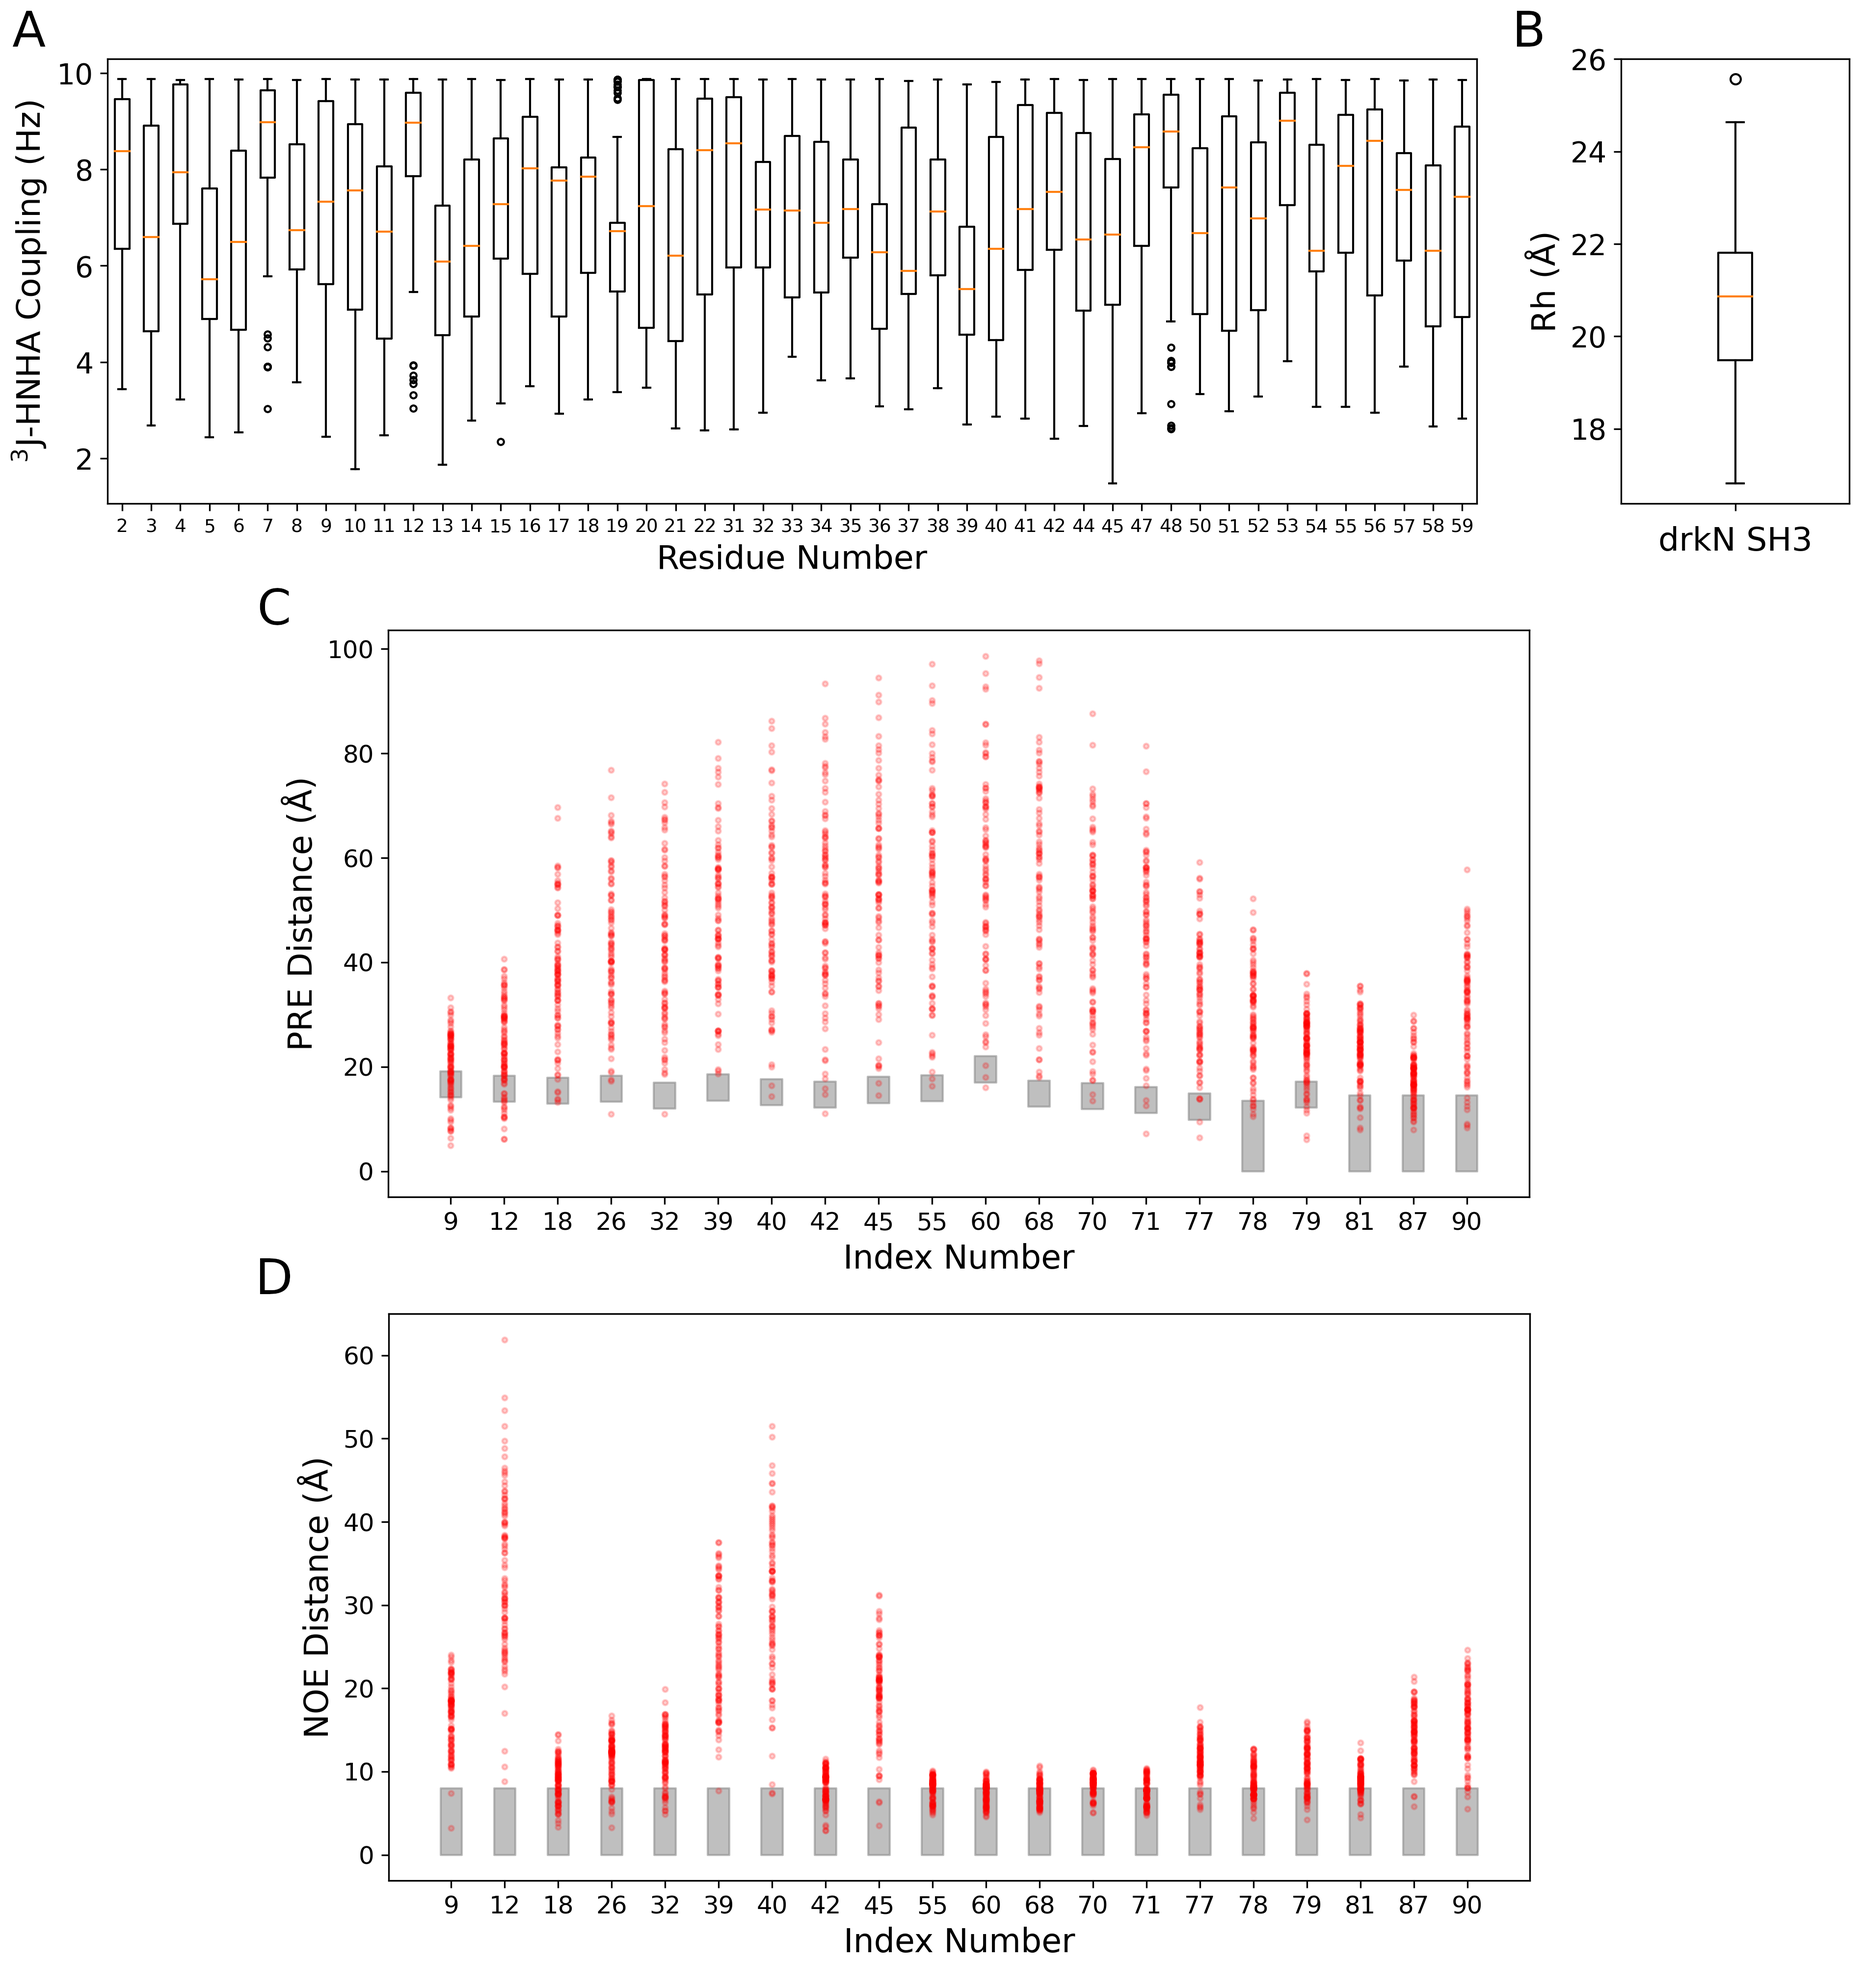
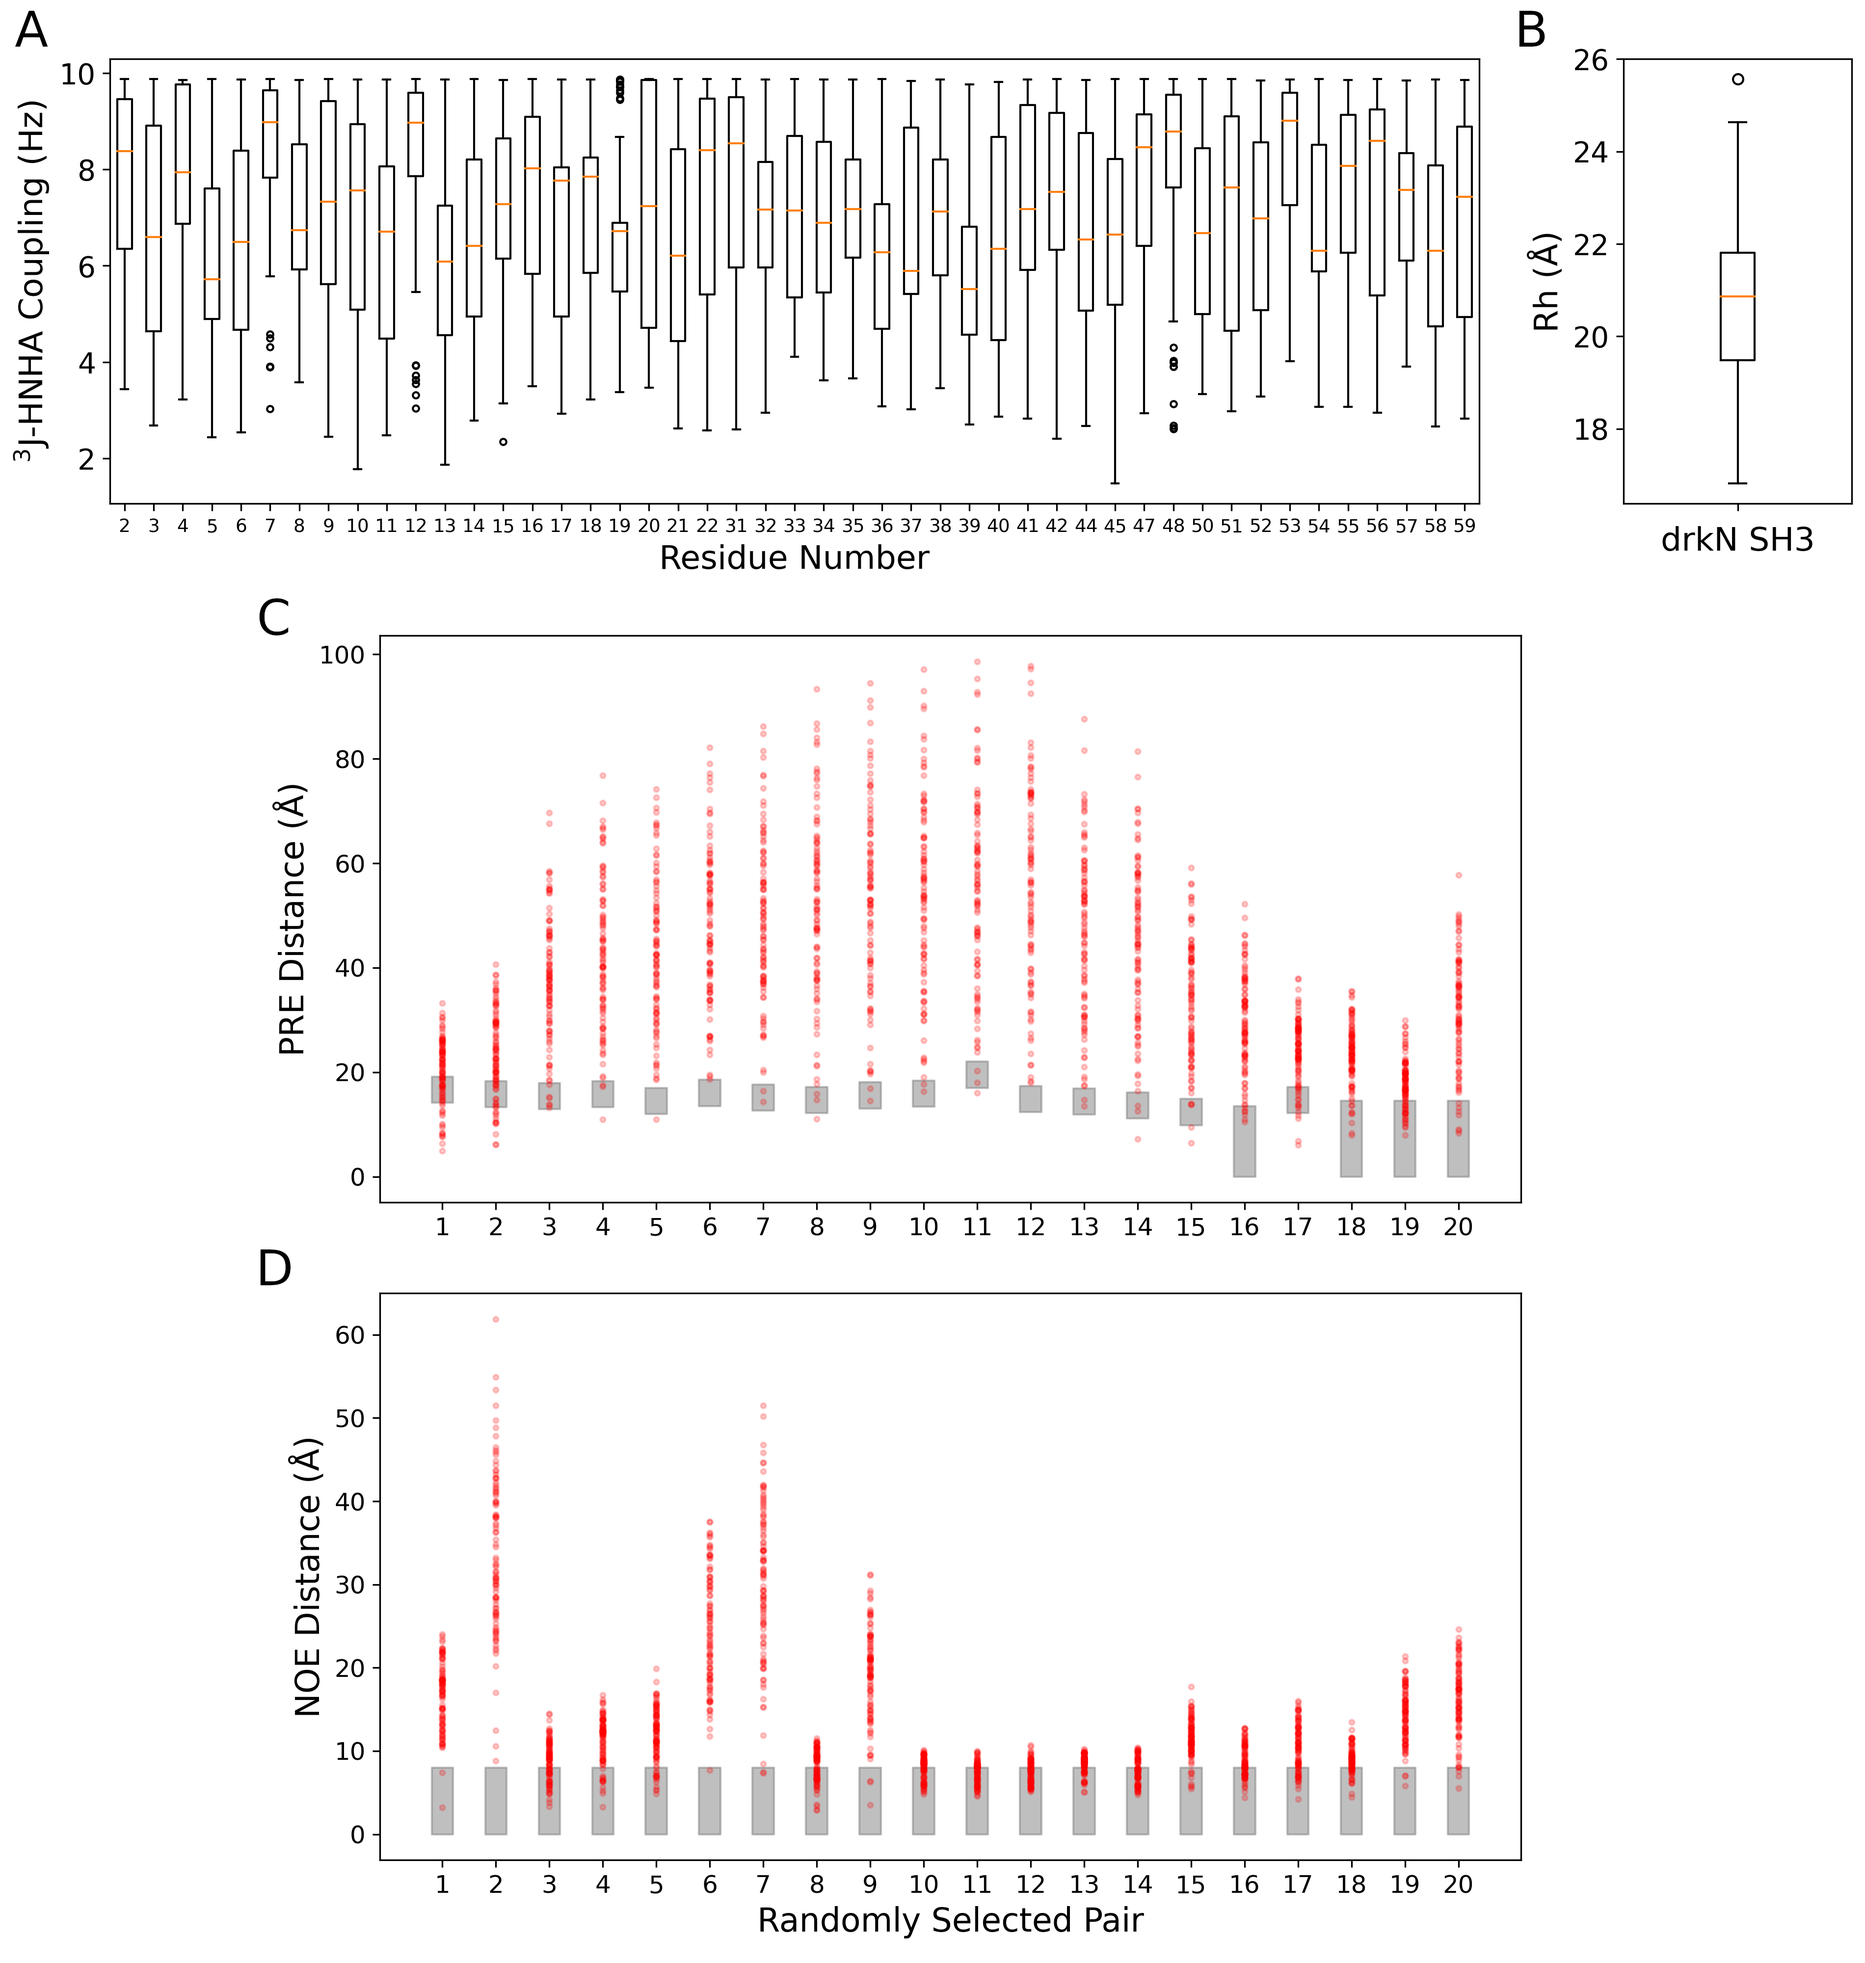
update paper

diff --git a/joss/paper.md b/joss/paper.md
@@ -88,7 +88,9 @@ We plan to integrate alternative methods to calculate experimental datatypes int
 
 Detailed installation/troubleshooting instructions, real-world usage examples, and input/output formats are provided both in the project's documentation hosted on ReadTheDocs (https://spyci-pdb.readthedocs.io/en/stable/) and within the modules through the `--help` argument. Plots of sample outputs from the `jc`, `rh`, `pre`, and `noe` modules using the example structures and data in the repository are shown in \autoref{fig}.
 
-![Plots of distributions of back-calculated experimental data of 100 structures of the unfolded state of the Drk N-terminal SH3 domain (drkN SH3) generated using IDPConformerGenerator [@Teixeira2022]. Panel (A) shows back-calculated <sup>3</sup>J-HNHA couplings in Hz based on the Karplus equation with A, B, and C constants from Lincoff et al. [@Lincoff2020]. Not every residue has a back-calculated J coupling based on the associated experimental file. Panel (B) shows the distribution of back-calculated Rh values in Angstroms using HullRad [@Fleming2018]. Panels (C) and (D) show twenty randomy selected pairs of back-calculated PRE and NOE distances respectively as indicated by the index number corresponding to their experimental counterpart. The ranges of experimental values are represented as grey boxes while back-calculated values are shown as red dots.\label{fig}](fig1.png)
+Comparing the back-calculated PRE and NOE distance values to the experimental observables, the default Euclidean distance interpretation yields some values agreeing with the experimental range (Figure 1C, 1D). With a greater sample size, we would likely capture more back-calculated data agreeing with the experimental ranges. The internal plotting features in the ``noe``, ``pre``, ``rh``, and ``jc`` modules of **SPyCi-PDB** is useful for users to gauge the quality of the initial pool before downstream reweighting. Furthermore, with the integration of different back-calculation methods, these plots will provide the user with a useful comparison between back-calculation philosophies.
+
+![Plots of distributions of back-calculated experimental data of 100 structures of the unfolded state of the Drk N-terminal SH3 domain (drkN SH3) generated using IDPConformerGenerator [@Teixeira2022]. Panel (A) shows back-calculated 3J-HNHA couplings in Hz based on the Karplus equation with A, B, and C constants from Lincoff et al. [@Lincoff2020]. Only residues with experimental data to compare will generate a back-calculated J coupling value. Panel (B) shows the distribution of back-calculated Rh values in Angstroms using HullRad [@Fleming2018]. Panels (C) and (D) show twenty randomly selected pairs of back-calculated PRE and NOE distances, respectively. The ranges of experimental values are represented as grey boxes while back-calculated values for each conformer are shown as red dots.\label{fig}](fig1.png)
 
 # Acknowledgements
 
